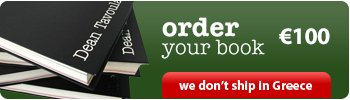
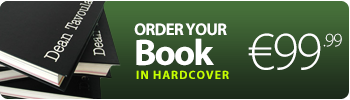
UPDATES

diff --git a/index.html b/index.html
@@ -50,11 +50,12 @@
 			<img alt="" border="0" src="https://www.paypalobjects.com/en_US/i/scr/pixel.gif" width="1" height="1" >
 			</form>
 			-->
+			<img src="order2.png" alt="Get Adobe Flash player" style="margin-left: 30px;" />
 
 			<form action="https://www.paypal.com/cgi-bin/webscr" method="post" style="margin-left: 30px;">
 			<input type="hidden" name="cmd" value="_s-xclick">
 			<input type="hidden" name="hosted_button_id" value="YXZFYH3WVW8V4">
-			<input type="image" src="http://tavoularisbook.info/css/order.png?v=100" border="0" name="submit" alt="PayPal - The safer, easier way to pay online!">
+			<input type="image" src="http://tavoularisbook.info/order.png?v=101" border="0" name="submit" alt="PayPal - The safer, easier way to pay online!">
 			<img alt="" border="0" src="https://www.paypalobjects.com/en_US/i/scr/pixel.gif" width="1" height="1" >
 			</form>
 
